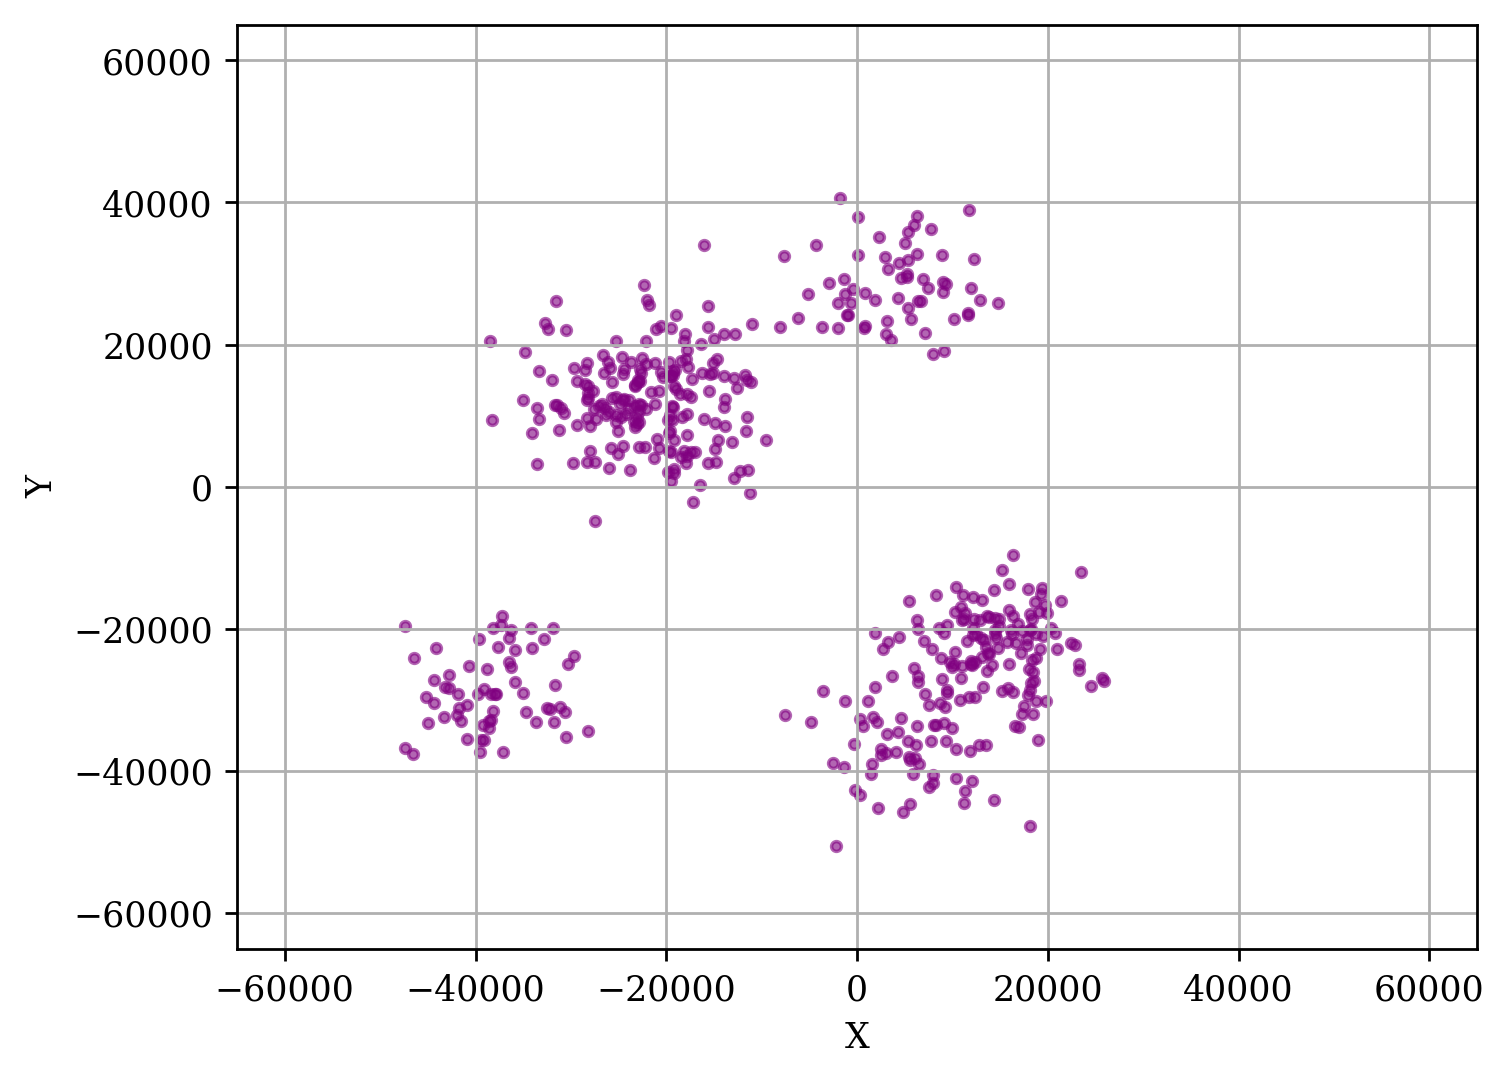
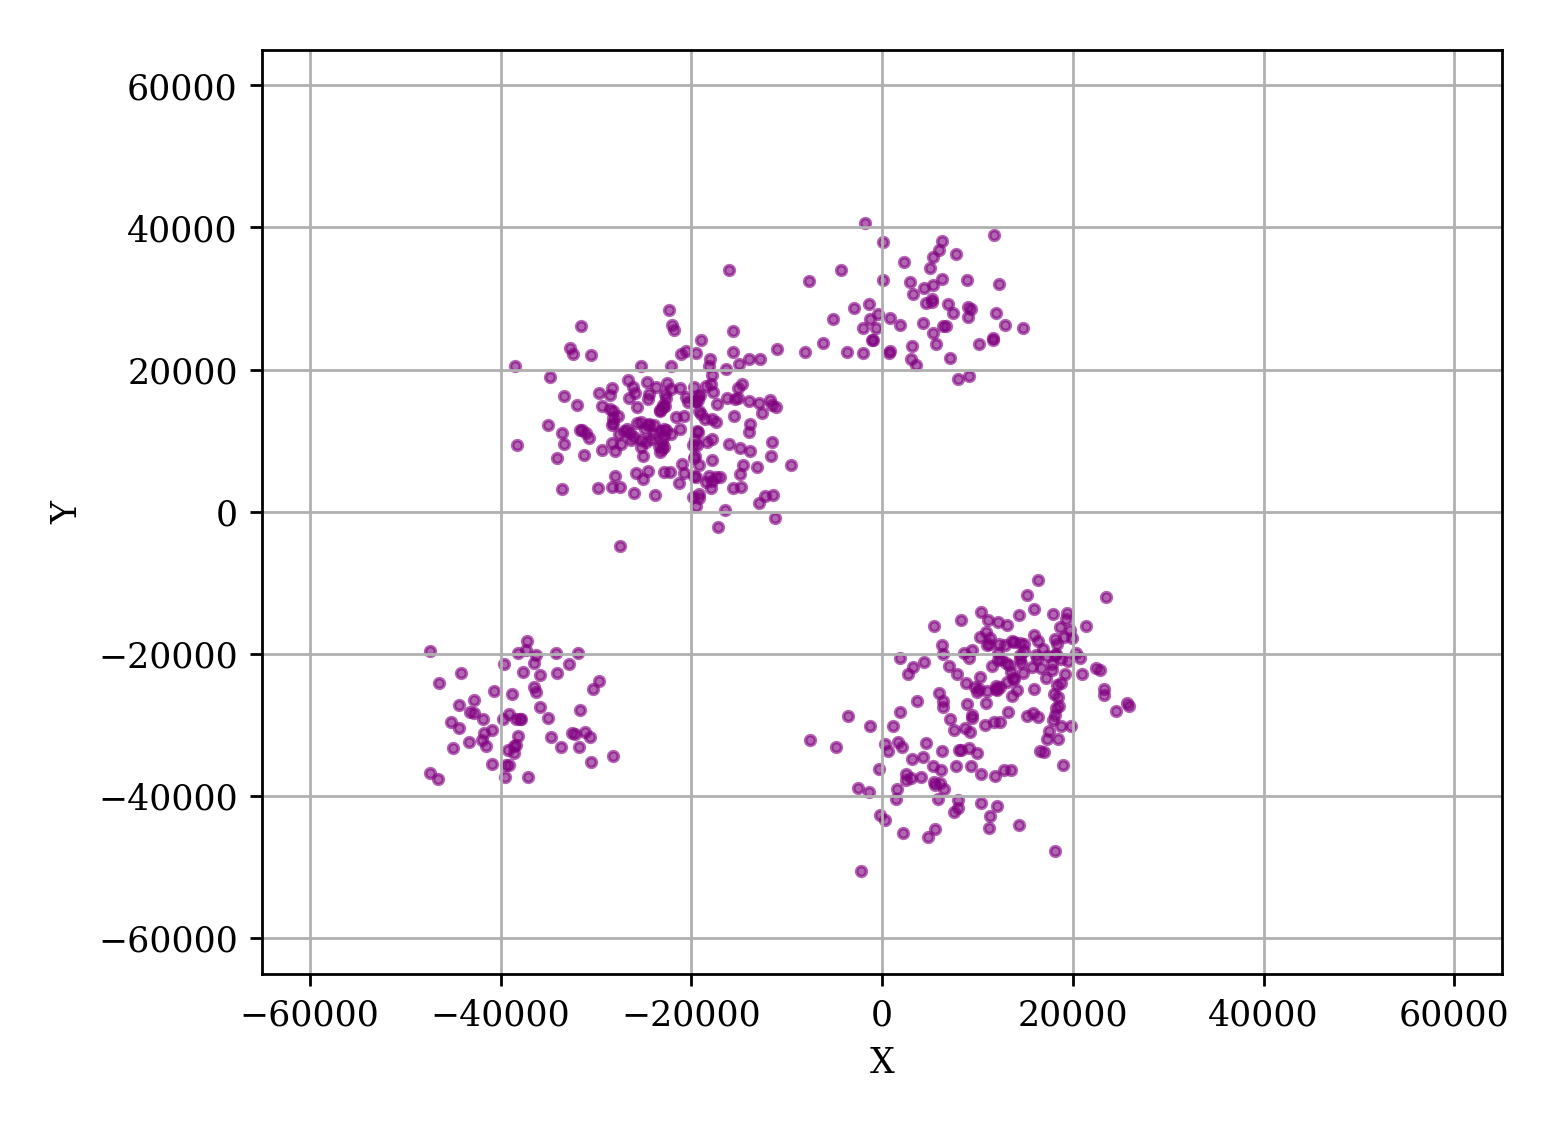
ajuste

Changed region(s): [[0.0623, 0.0, 0.9967, 0.9778], [0.0, 0.4278, 0.0623, 0.4583]]

diff --git a/graficos/graficos_R2.py b/graficos/graficos_R2.py
@@ -20,7 +20,7 @@ n = len(puntos)
 plt.xlabel('X')
 plt.ylabel('Y')
 plt.grid(True)
-plt.savefig(fname=f'{n}_pts_cluster', dpi=250, bbox_inches='tight')
+plt.savefig(fname=f'{n}_pts_cluster', dpi=250, bbox_inches='tight', pad_inches=0.2)
 plt.close()
 
 # %%
@@ -37,7 +37,7 @@ n = len(puntos)
 plt.xlabel('X')
 plt.ylabel('Y')
 plt.grid(True)
-plt.savefig(fname = f'{n}_pts_lineal',dpi=250, bbox_inches='tight')
+plt.savefig(fname = f'{n}_pts_lineal',dpi=250, bbox_inches='tight', pad_inches=0.2)
 plt.close()
 # %%
 
@@ -53,6 +53,6 @@ n = len(puntos)
 plt.xlabel('X')
 plt.ylabel('Y')
 plt.grid(True)
-plt.savefig(fname = f'{n}_pts_uniforme',dpi=250, bbox_inches='tight')
+plt.savefig(fname = f'{n}_pts_uniforme',dpi=250, bbox_inches='tight', pad_inches=0.2)
 plt.close()
 # %%
